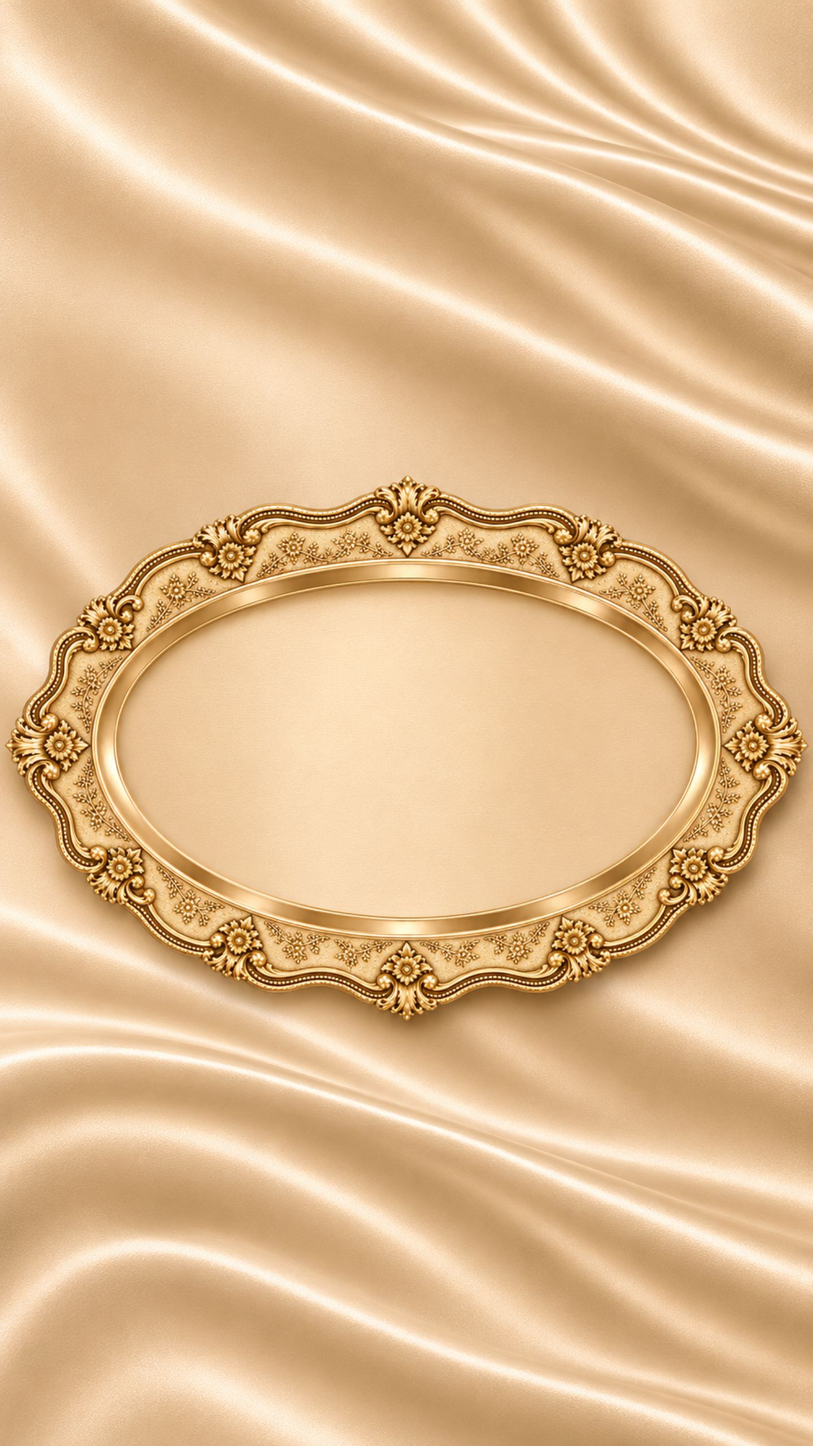
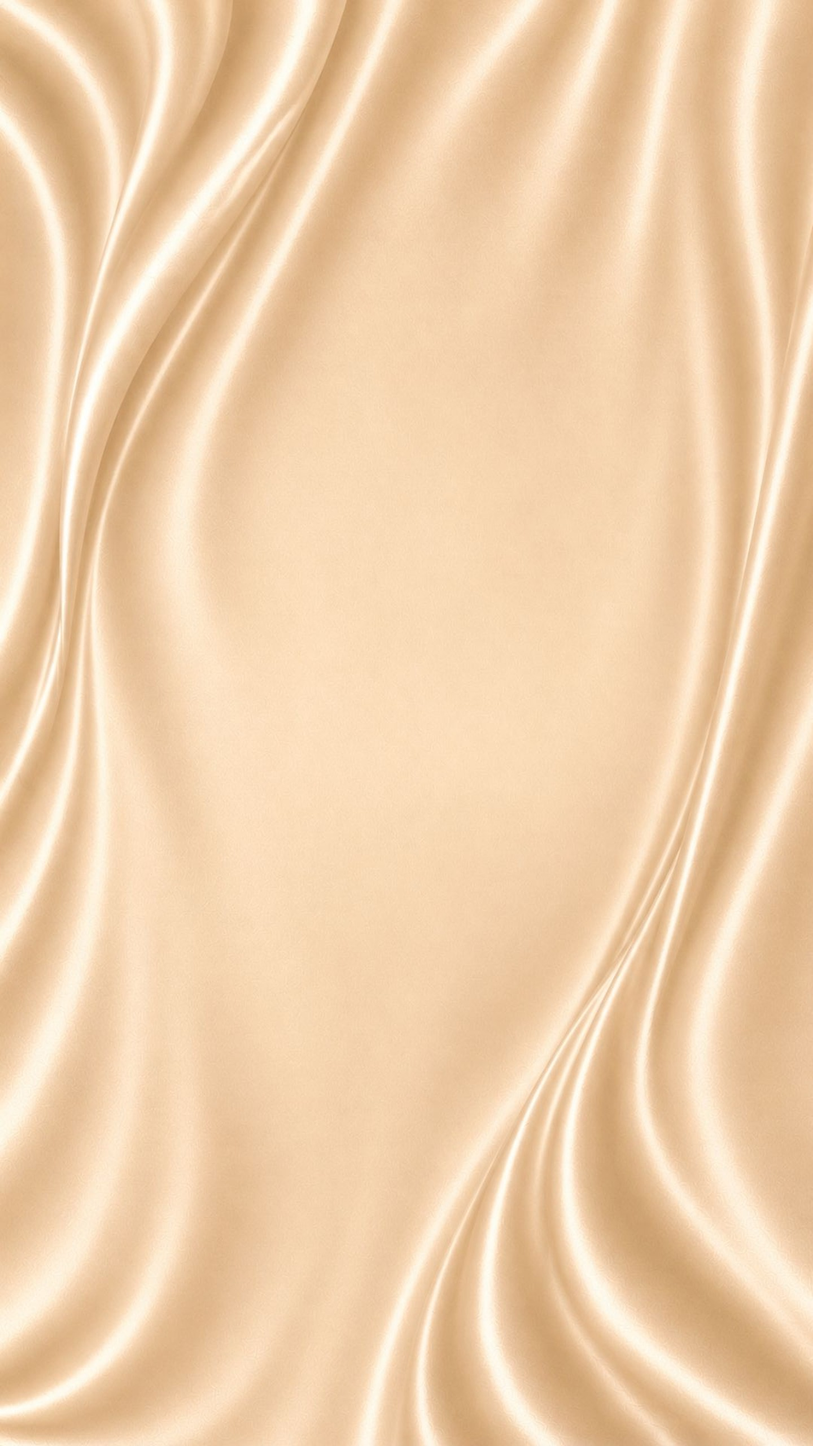
Add files via upload

diff --git a/public/envelope-engine.js b/public/envelope-engine.js
@@ -92,10 +92,10 @@
 	root.innerHTML =
 		'<div class="ev-stage" id="ev-stage">' +
 		'<div class="ev-col">' +
-		'<h1 class="ev-title ev-rise">' + esc(S.welcome.text) + '</h1>' +
+		'<h1 class="ev-title ev-rise" id="ev-title">' + esc(S.welcome.text) + '</h1>' +
 		'<p class="ev-hint2" id="ev-hint2">' + esc(S.hint.openText) + '</p>' +
-		(S.images.tray ? '<div class="ev-tray ev-rise" style="--d:.12s"><img src="' + esc(S.images.tray) + '" alt="" draggable="false"></div>' : '') +
-		'<div class="ev-envbox ev-rise" style="--d:.24s">' +
+		(S.images.tray ? '<div class="ev-tray ev-rise ev-trayrise" style="--d:0s;--dur:' + (TM.trayRise || 1900) + 'ms"><img id="ev-trayimg" src="' + esc(S.images.trayPhone || S.images.tray) + '" alt="" draggable="false"></div>' : '') +
+		'<div class="ev-envbox ev-rise" style="--d:' + (TM.envDelay || 0.24) + 's">' +
 		'<div class="ev-env" id="ev-env">' +
 		'<div class="ev-lift" id="ev-lift">' +
 		img('ev-img ev-closed', S.images.closed) +
@@ -151,6 +151,16 @@
 
 	/* The tray is part of the silk background picture. Work out where it is on screen and put the envelope exactly in the middle of it. */
 	var trayLive = null;
+	// the welcome line sits just above the raised flap (the flap, once open, reaches this far above the envelope)
+	var placeTitle = function (H, envH, envBottom) {
+		var envTop = H - envBottom - envH;
+		var flapTop = envTop - envH * (S.envelope.openFlapRise || 0.74);
+		rs.setProperty('--ev-title-b', Math.round(H - flapTop + (S.welcome.gap || 14)) + 'px');
+		var im = document.getElementById('ev-trayimg');
+		var want = wide0() ? S.images.tray : S.images.trayPhone || S.images.tray;
+		if (im && want && im.getAttribute('src') !== want) im.setAttribute('src', want);
+	};
+	var wide0 = function () { return window.matchMedia('(min-width: 700px) and (orientation: landscape)').matches; };
 	var fitTray = function () {
 		var T = S.trayInBg;
 		if (!T || cfg.cardsOnly) return;
@@ -170,9 +180,9 @@
 			rs.setProperty('--ev-trayimg-b', Math.round(H - (cyL + trH / 2)) + 'px');
 			rs.setProperty('--ev-tray-b', Math.round(H - (cyL + envHL / 2) - colL * L.envelopeLift) + 'px');
 			trayLive = { cx: W / 2, cy: cyL, rx: (trW / 2) * 0.96, ry: (trH / 2) * 0.96 };
+			placeTitle(H, envHL, H - (cyL + envHL / 2));
 			return;
 		}
-		rs.setProperty('--ev-tray-w', L.trayWidth + '%');
 		var Wv = W;
 		var sc = Math.max(Wv / g.iw, H / g.ih); // background-size: cover
 		var ox = (W - Wv) / 2 + (Wv - g.iw * sc) / 2, oy = (H - g.ih * sc) / 2;
@@ -185,6 +195,10 @@
 		rs.setProperty('--ev-max', Math.round(colW) + 'px');
 		rs.setProperty('--ev-tray-b', Math.round(bottom - colW * L.envelopeLift) + 'px');
 		trayLive = { cx: cx, cy: cy, rx: Math.min(tw / 2, Wv / 2 - 6) * 0.97, ry: Math.min(th / 2, H / 2 - 6) * 0.97 };
+		// phone: the tray is its own picture, placed exactly where it used to be inside the background
+		rs.setProperty('--ev-tray-w', Math.round(tw) + 'px');
+		rs.setProperty('--ev-trayimg-b', Math.round(H - (cy + th / 2)) + 'px');
+		placeTitle(H, envH, bottom);
 	};
 	fitTray();
 	var vw = $('ev-vw');
@@ -768,6 +782,7 @@
 		// the ring stops at the edge of the tray (an oval), nothing beyond it
 		var TL = trayLive || (function () { var e = envEl.getBoundingClientRect(); return { cx: o.x, cy: o.y, rx: e.width * 0.7, ry: e.height * 0.9 }; })();
 		var R = TL.rx;
+		var r0 = Math.max(8, closedEl.getBoundingClientRect().width * ENV.sealR / 100 * 0.8); // starts inside the wax seal
 		var yk = TL.ry / TL.rx;
 		var dur = Rp.duration;
 		var t0 = null;
@@ -813,9 +828,12 @@
 				if (u <= 0) return;
 				var e = 1 - Math.pow(1 - u, 1.9); // quick start, long soft finish
 				// the ring starts at the seal and ends as the outline of the tray, reaching all its sides and corners
-				var oo = { x: o.x + (TL.cx - o.x) * e, y: o.y + (TL.cy - o.y) * e };
-				x.setTransform(1, 0, 0, yk, 0, oo.y * (1 - yk));
-				var r = 14 + (R - 14) * e;
+				// (round and centred on the seal at first; the centre and the oval shape settle onto the tray only as it grows)
+				var ec = Math.pow(e, 2.4);
+				var oo = { x: o.x + (TL.cx - o.x) * ec, y: o.y + (TL.cy - o.y) * ec };
+				var ykt = 1 + (yk - 1) * ec;
+				x.setTransform(1, 0, 0, ykt, 0, oo.y * (1 - ykt));
+				var r = r0 + (R - r0) * e;
 				var a = rg.k * smooth(0, 0.08, u) * Math.pow(1 - smooth(0.5, 1, u), 1.2);
 				if (a < 0.004) return;
 				var wd = 10 + r * 0.045; // rings grow softer as they travel
@@ -1036,7 +1054,7 @@
 		// the stack forms in front of the envelope, right where the swipe row will be; the back cards only show as a line behind the first card
 		var s = tgt.w / (ch / cardRatio);
 		var pile = { y: tgt.cy - from.cy - kk * 0.02 * tgt.h, x: tgt.cx - from.cx, rot: 0, s: s, out: out };
-		return { rest: rest, lift: lift, pile: pile, kk: kk };
+		return { rest: rest, lift: lift, pile: pile, kk: kk, k: k };
 	};
 	var firstSlot = function () {
 		var hold = !vwOpen;
@@ -1114,7 +1132,7 @@
 		var tc = tf0 + D.flap + 0.1;
 		var up = D.cardUp;
 		cards.forEach(function (c) {
-			var d = c.pose.kk * step;
+			var d = c.pose.k * step;
 			tl.to(c.el, { y: c.pose.pile.out, duration: up, ease: easeUp }, tc + d);
 			tl.call(
 				function () {
@@ -1126,7 +1144,7 @@
 			tl.to(c.el, { y: c.pose.pile.y, x: c.pose.pile.x, scale: c.pose.pile.s, duration: D.cardSettle, ease: easeDown }, tc + d + up);
 		});
 		// fairy dust follows the opening: a few specks from inside as the flap lifts, more as the cards rise, fading as they settle
-		var lastD = cards[cards.length - 1].pose.kk * step;
+		var lastD = cards[cards.length - 1].pose.k * step;
 		tl.call(function () {
 			if (state === 'opening' && dust) {
 				dust.mode = 1;
@@ -1308,7 +1326,7 @@
 			D.cardDown
 		);
 		cards.forEach(function (c) {
-			ctl.to(c.el, { y: c.pose.lift.y, duration: D.cardDown, ease: easeDown }, D.cardDown + c.pose.kk * step);
+			ctl.to(c.el, { y: c.pose.lift.y, duration: D.cardDown, ease: easeDown }, D.cardDown + c.pose.k * step);
 		});
 	}
 

diff --git a/src/data/haya-envelope.ts b/src/data/haya-envelope.ts
@@ -3,12 +3,12 @@
 
 export const hayaEnvelope = {
 	background: '#fbf3e4', // page colour (cream), shown until the silk pictures load
-	backgroundImage: '/haya-bg.jpg?v=3', // silk background on phones (9:16)
+	backgroundImage: '/haya-bg.jpg?v=4', // silk background on phones (9:16)
 	backgroundImageWide: '/haya-bg-wd.jpg?v=3', // silk background on laptops (16:9)
 	footerBackground: '#1d4a30', // closing section and the strip that rises after the tap
 	stageMaxWidth: 430, // widest the invitation column gets on a laptop (px)
 
-	welcome: { text: 'A Little Something, For You', font: 'Berkshire Swash', color: '#b1232c', size: 'clamp(2rem, 9.5vw, 2.7rem)' },
+	welcome: { text: 'We\u2019re Honoured To Have You \u2665\uFE0F', font: 'Berkshire Swash', color: '#276041', size: 'clamp(1.7rem, 7.6vw, 2.3rem)', gap: 14 },
 	hint: { text: 'Tap the envelope to open', openText: 'Tap the cards to read', font: 'Unna', color: '#5a1016', size: '1.1rem' },
 
 	footer: {
@@ -32,7 +32,8 @@ export const hayaEnvelope = {
 	viewer: { background: 'rgba(40, 16, 10, 0.88)', text: '#fff3e0' }, // the card reading screen
 
 	images: {
-		tray: '/haya-tray.webp', // used on laptops only (on phones the tray is part of the background picture)
+		tray: '/haya-tray.webp', // the tray on laptops
+		trayPhone: '/haya-tray-m.webp', // the tray on phones
 		closed: '/haya3-closed.webp?v=2', // the full closed envelope
 		body: '/haya3-body.webp', // the open envelope without its flap
 		front: '/haya3-front.webp', // the front of the pocket (cut-out where the cards show)
@@ -105,8 +106,8 @@ export const hayaEnvelope = {
 
 	// Other times in milliseconds
 	timing: {
-		entrance: 1100, // text, tray and envelope rising in
-		hintDelay: 1700, // when the "tap" hint appears
+		entrance: 1100, trayRise: 1900, envDelay: 1.15, // text, tray and envelope rising in
+		hintDelay: 3000, // when the "tap" hint appears
 		peek: 900, // the strip rising from the bottom
 		peekDelay: 1200, // when it starts after the tap
 		viewerIn: 450, // reading screen opening

diff --git a/public/envelope.css b/public/envelope.css
@@ -45,7 +45,7 @@ body {
 .ev-rise {
 	opacity: 0;
 	transform: translateY(70px);
-	transition: opacity var(--ev-enter, 1100ms) ease var(--d, 0s), transform var(--ev-enter, 1100ms) cubic-bezier(0.2, 0.8, 0.2, 1) var(--d, 0s);
+	transition: opacity var(--dur, var(--ev-enter, 1100ms)) ease var(--d, 0s), transform var(--dur, var(--ev-enter, 1100ms)) cubic-bezier(0.2, 0.8, 0.2, 1) var(--d, 0s);
 }
 .ev-in .ev-rise {
 	opacity: 1;
@@ -57,7 +57,8 @@ body {
 
 .ev-title {
 	position: absolute;
-	top: var(--ev-title-top, 7%);
+	top: auto;
+	bottom: var(--ev-title-b, 80%);
 	left: 0;
 	right: 0;
 	margin: 0;
@@ -65,6 +66,9 @@ body {
 	text-align: center;
 	font: 400 var(--ev-title-size, 2.4rem) / 1.2 var(--ev-title-font, serif);
 	color: var(--ev-title-color, #b1232c);
+}
+@media (min-width: 700px) and (orientation: landscape) {
+	.ev-title { left: -25%; right: -25%; font-size: 2rem; }
 }
 .ev-greet {
 	display: block;
@@ -77,10 +81,12 @@ body {
 	left: 0;
 	right: 0;
 	bottom: var(--ev-trayimg-b, 15%);
-	display: none;
+	display: flex;
 	justify-content: center;
 	pointer-events: none;
 }
+.ev-trayrise.ev-rise { transform: translateY(120px); }
+.ev-in .ev-trayrise.ev-rise { transform: none; }
 .ev-tray img {
 	display: block;
 	width: var(--ev-tray-w, 92%);
